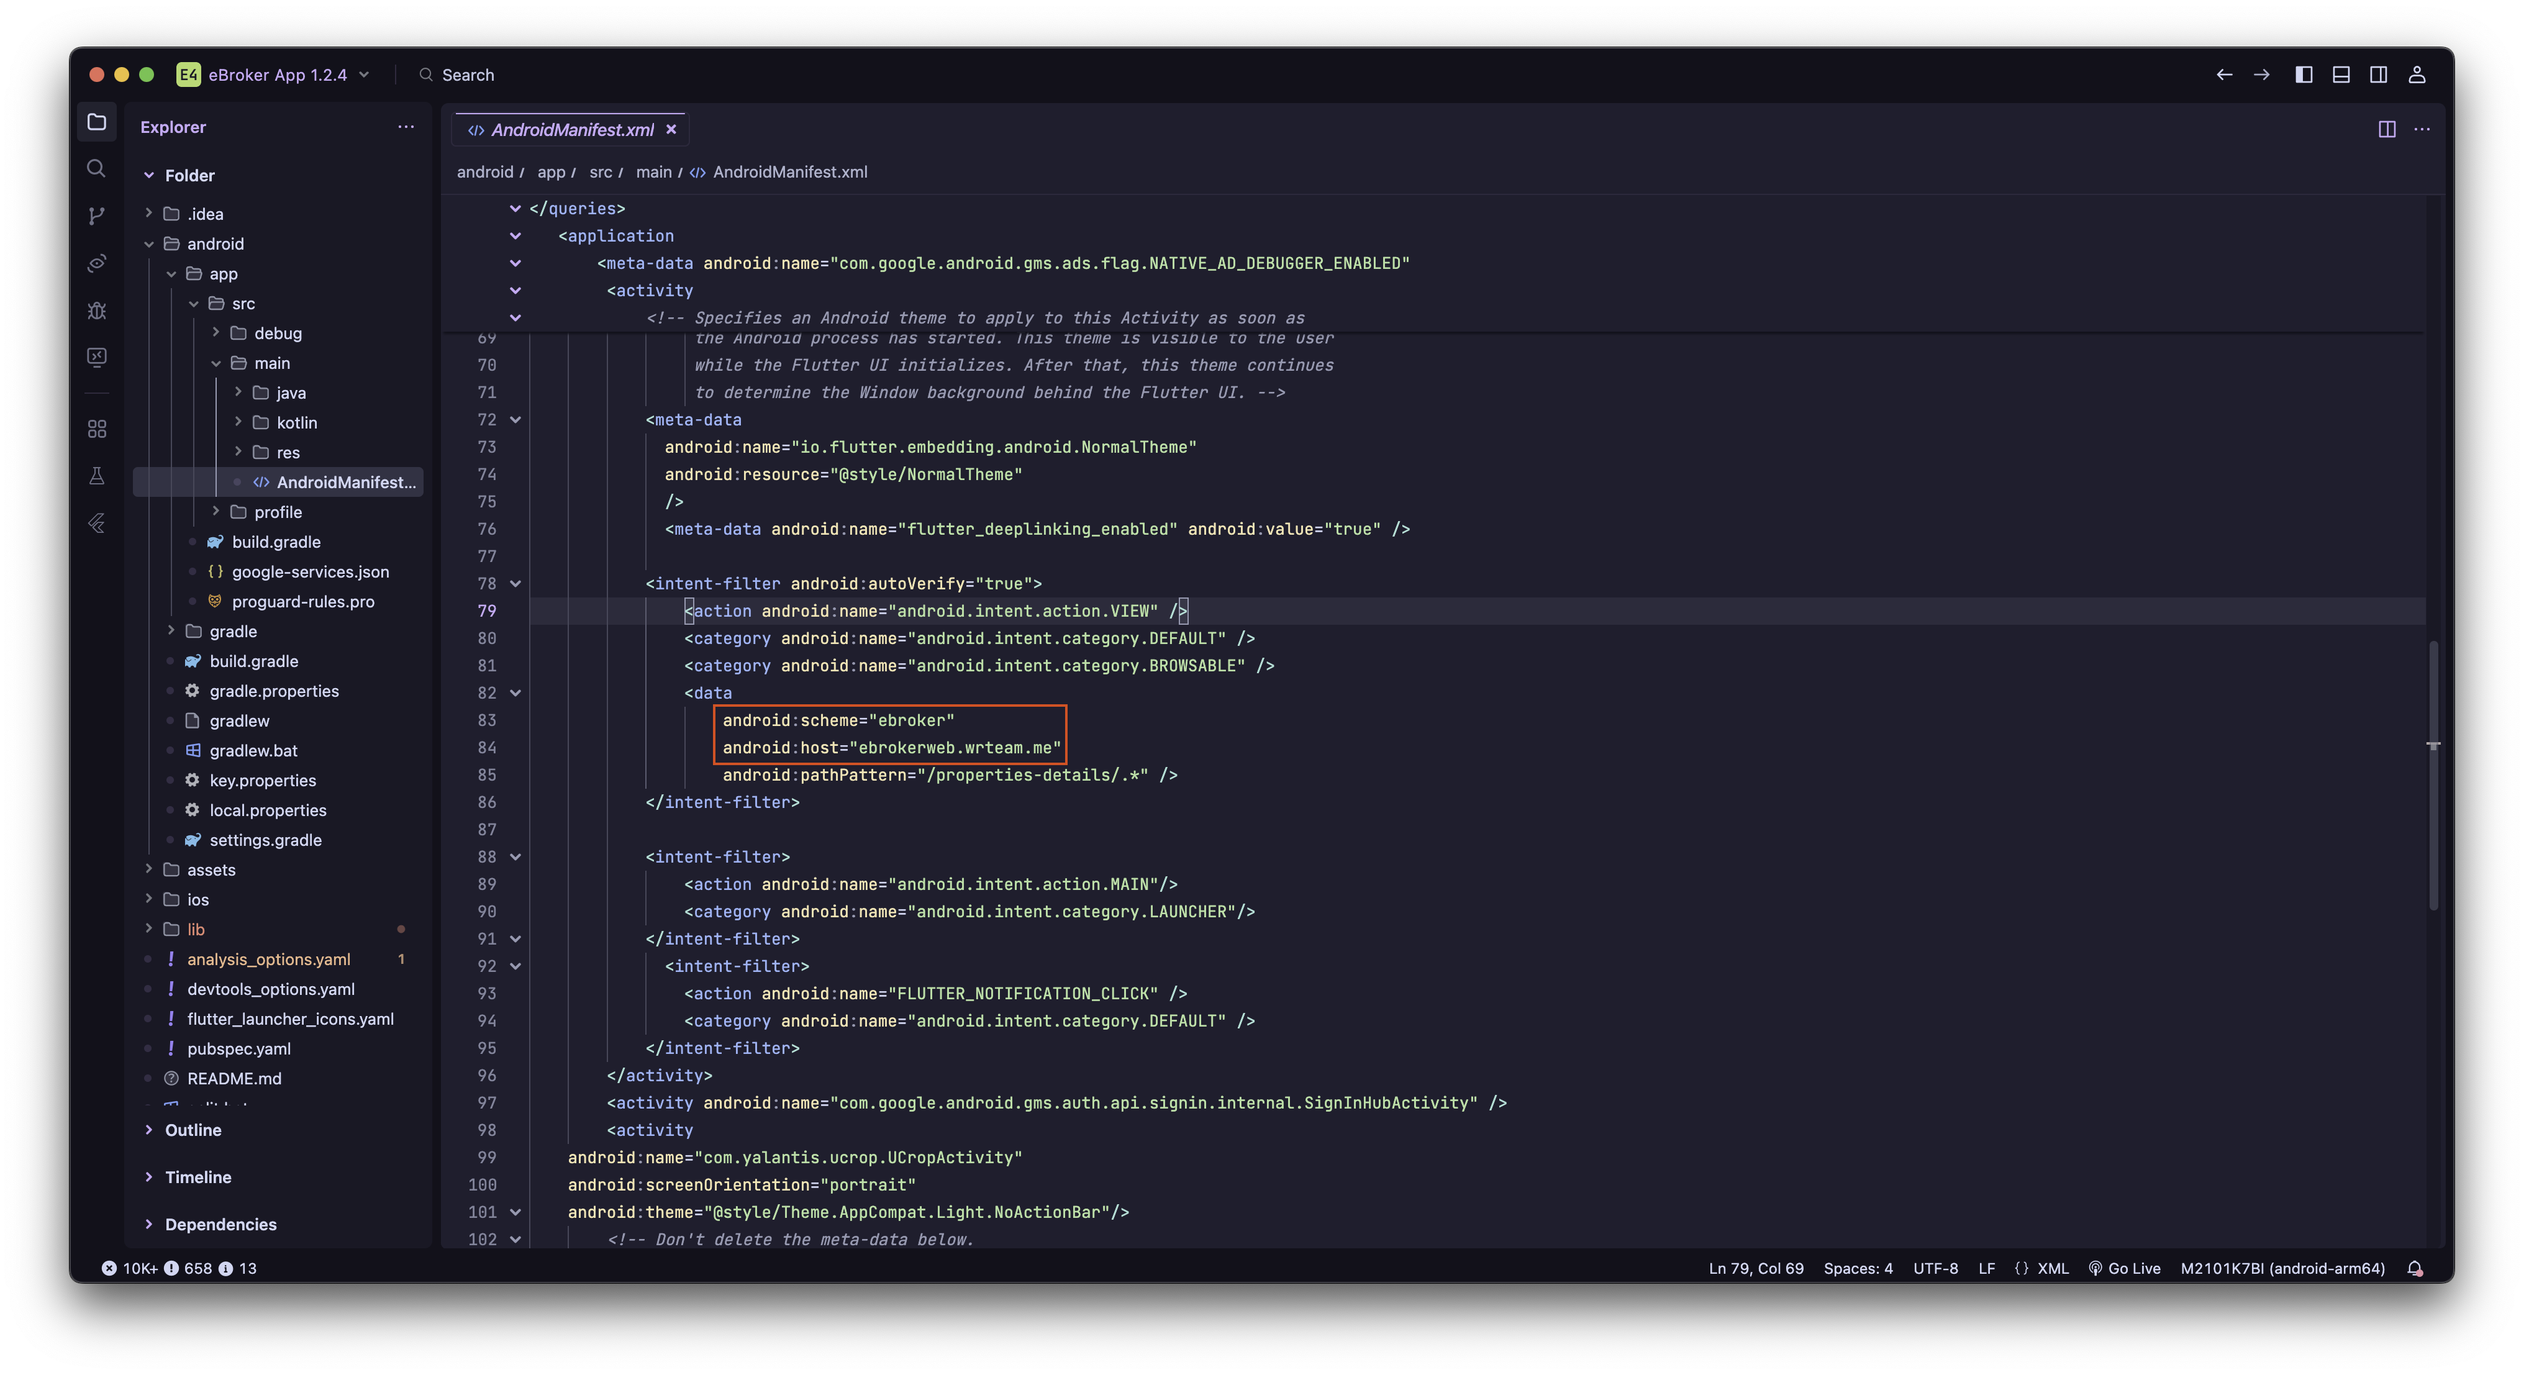
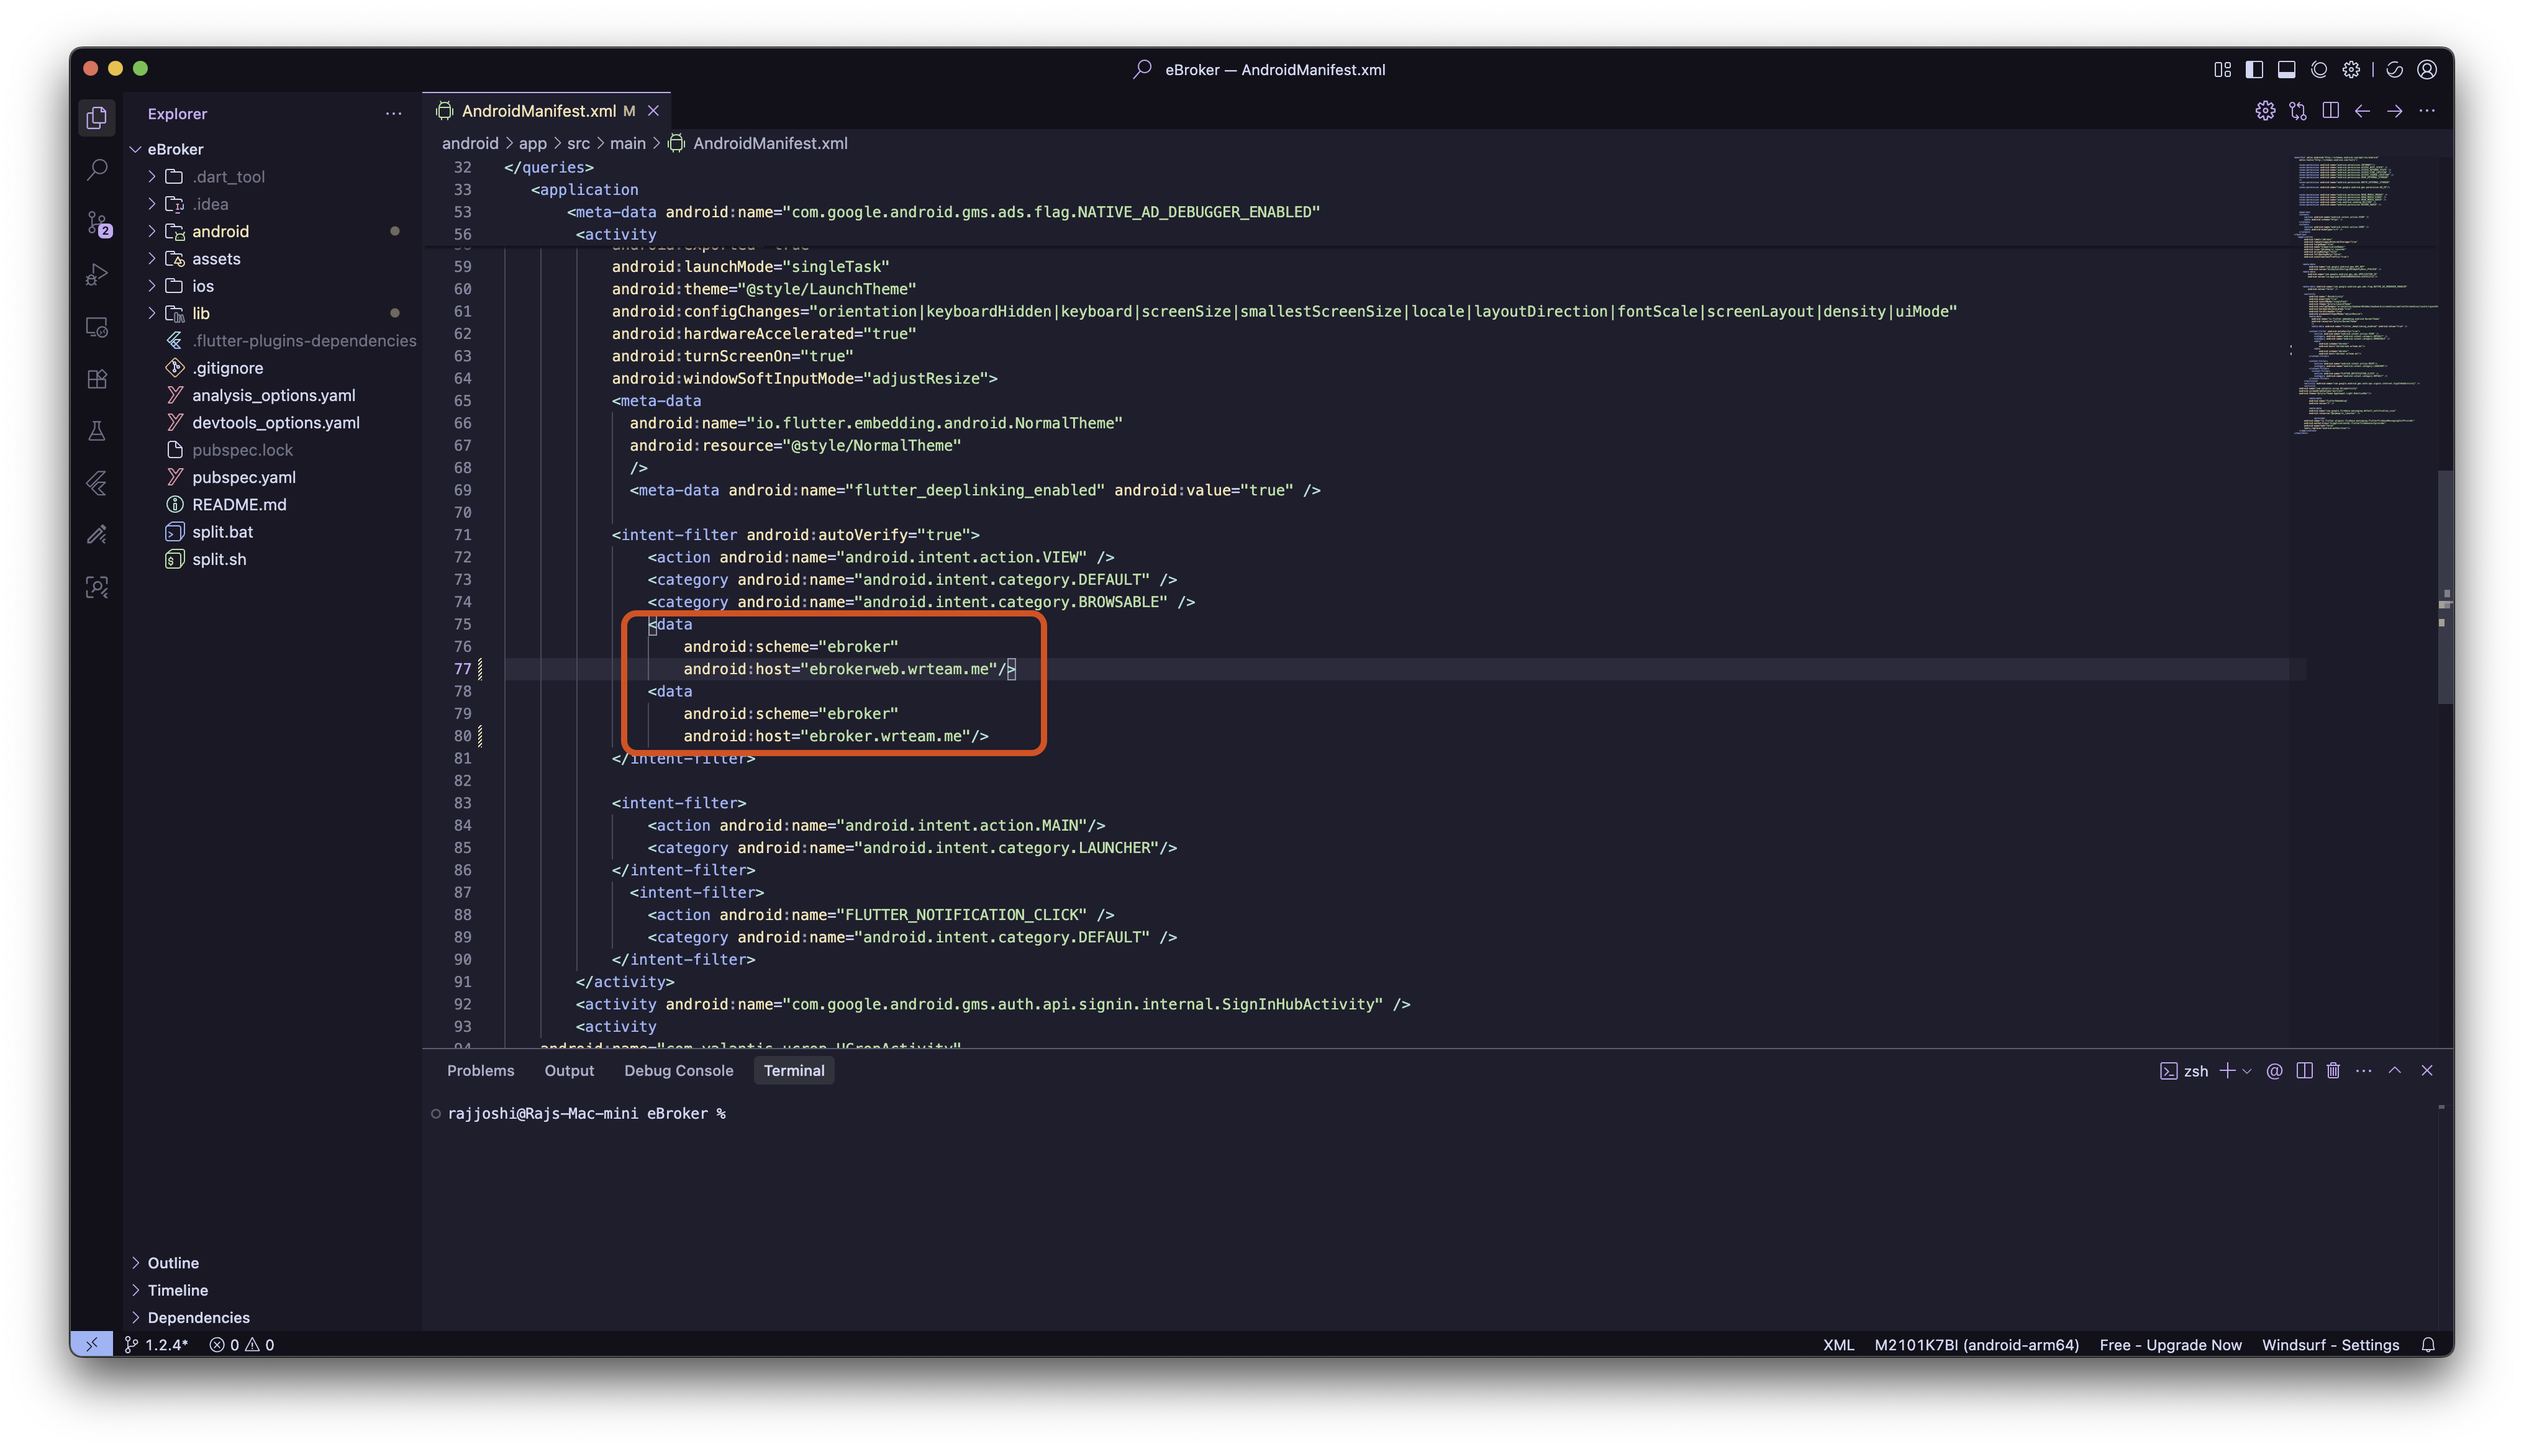
app: deeplink changes

diff --git a/docs/app/setup-deep-link.md b/docs/app/setup-deep-link.md
@@ -30,7 +30,7 @@ Deep linking allows users to open specific content in your eBroker app directly 
 
 2. **Update for Android**:
    - Open `android > app > src > main > AndroidManifest.xml`.
-   - In your `AndroidManifest.xml` file, Update the following with schema you added in admin panel and domain you added in settings.dart:
+   - In your `AndroidManifest.xml` file, Update the following with schema you added in admin panel and domain you added in settings.dart and admin domain as shown in screenshot:
 
 ![Deep Link 3](/images/app/deeplink/manifest_deeplink.png)
    
